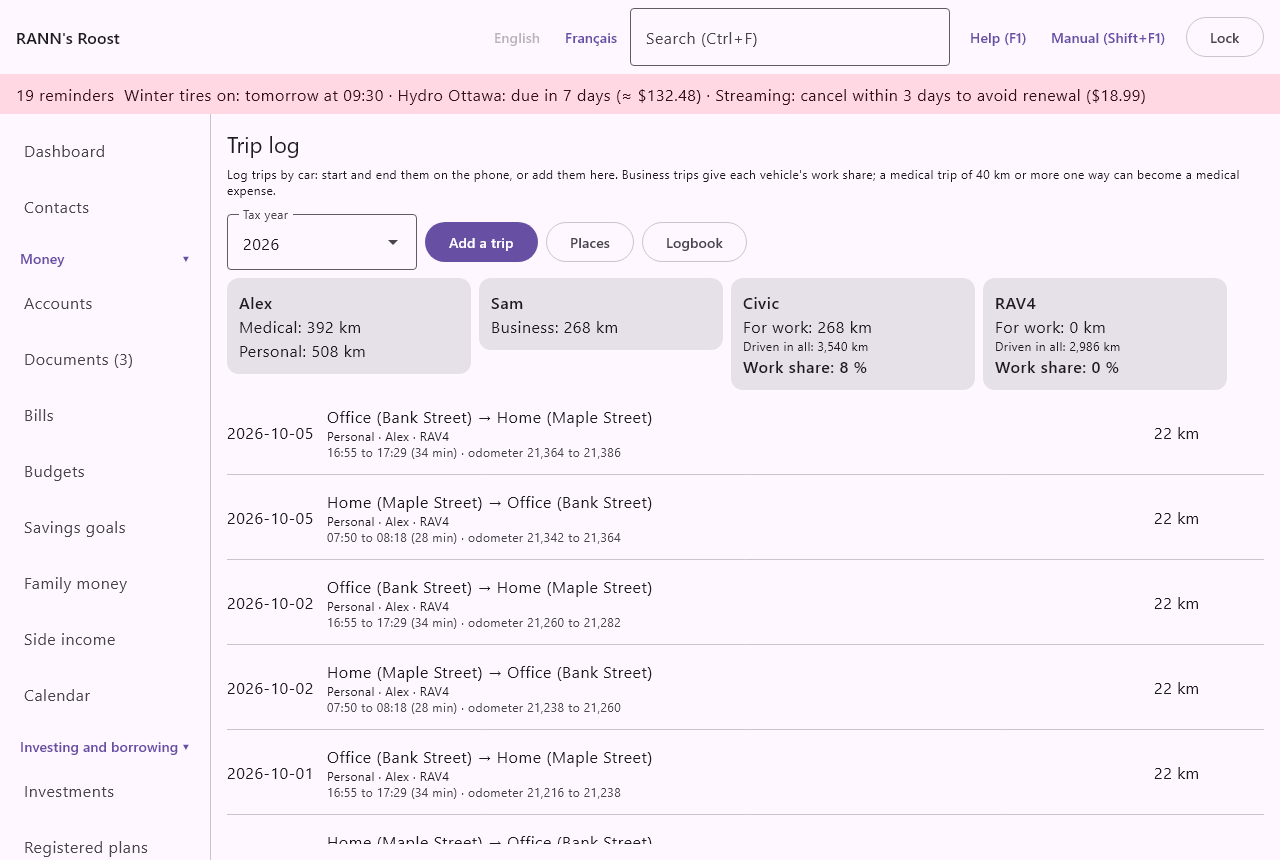
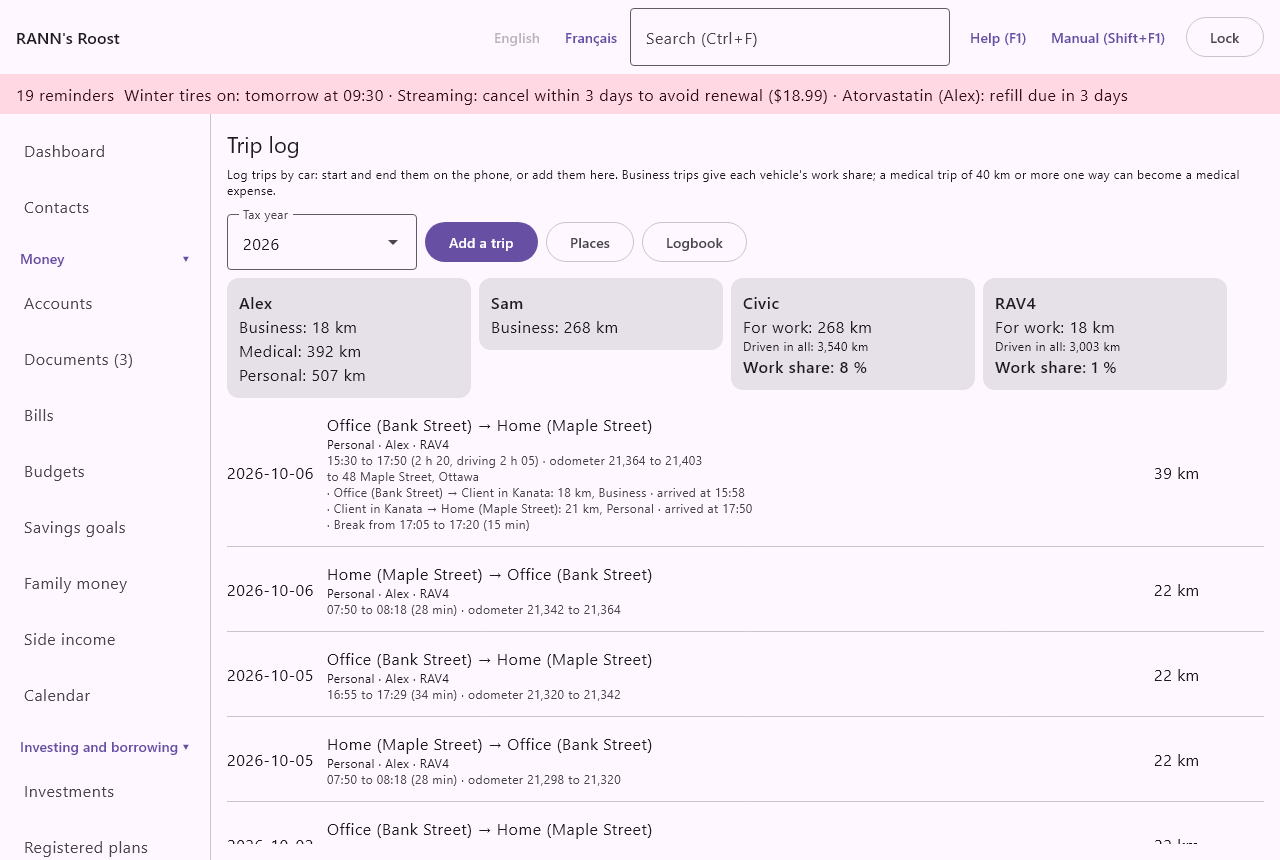
Trips: privacy policy and Data safety for address lookup and stations nearby, help, trip log pictures, shared PDF page count; lint fix

diff --git a/core/books/src/main/kotlin/ca/schippers/hfm/books/SyncService.kt b/core/books/src/main/kotlin/ca/schippers/hfm/books/SyncService.kt
@@ -87,6 +87,9 @@ class PairingRejectedException : Exception("Pairing was refused")
 interface CaptureConverter {
     fun pagesToPdf(pages: List<ByteArray>): ByteArray
     fun recognize(content: ByteArray): OcrResult?
+
+    /** How many pages a PDF shared from the phone has; null when it cannot be told (counted as one). */
+    fun pageCount(pdf: ByteArray): Int? = null
 }
 
 /**
@@ -356,7 +359,9 @@ class SyncService internal constructor(private val books: Books) {
             mime != "text/plain" -> converter.recognize(content)?.let { it to "desktop" }
             else -> null
         }
-        ocr?.let { (result, engine) -> books.documents.recordText(doc.id, maxOf(1, pages.size), result, engine, today) }
+        // A PDF shared from the phone has its own pages; photos are a page each.
+        val pageCount = if (pdf != null) runCatching { converter.pageCount(content) }.getOrNull() ?: 1 else pages.size
+        ocr?.let { (result, engine) -> books.documents.recordText(doc.id, maxOf(1, pageCount), result, engine, today) }
         // What the person typed on the phone wins over what was read.
         val read = books.documents.get(doc.id)
         val amount = f.amount?.let { a -> runCatching { Money.exact(phoneDecimal(a)!!, f.currency?.let(Currency::of) ?: read.amount?.currency ?: books.rates.baseCurrency) }.getOrNull() }

diff --git a/core/books/src/test/kotlin/ca/schippers/hfm/books/SyncServiceTest.kt b/core/books/src/test/kotlin/ca/schippers/hfm/books/SyncServiceTest.kt
@@ -53,6 +53,7 @@ class SyncServiceTest {
         var pdfCalls = 0
         override fun pagesToPdf(pages: List<ByteArray>): ByteArray { pdfCalls++; return "%PDF-1.7 ${pages.size} pages".encodeToByteArray() }
         override fun recognize(content: ByteArray): OcrResult? = null
+        override fun pageCount(pdf: ByteArray): Int? = 3
     }
 
     @BeforeEach
@@ -99,6 +100,17 @@ class SyncServiceTest {
         assertEquals("audio/wav", voice.mimeType)
         assertTrue(books.documents.content(voice.id).contentEquals(wav))
         assertEquals("Lunch with a client, split with Paul", doc.notes, "the dictated words are the note")
+    }
+
+    @Test
+    fun `a PDF shared from the phone keeps its own page count`() {
+        val key = pairAsPhone(books.sync.invitation("Bureau", "127.0.0.1", 47311, now))
+        val shared = CaptureItem(
+            "pdf-1", CaptureKind.BILL, now, pdf = SyncCrypto.b64("%PDF-1.7 three pages".encodeToByteArray()), fileName = "facture.pdf",
+            ocrLines = listOf(OcrText("Hydro-Québec", 0.99f)),
+        )
+        assertEquals(listOf("pdf-1"), send(key, SyncRequest(now, listOf(shared))).imported)
+        assertEquals(3, books.documents.inbox().single().pages)
     }
 
     @Test

diff --git a/app/desktop/src/main/kotlin/ca/schippers/hfm/desktop/SyncServer.kt b/app/desktop/src/main/kotlin/ca/schippers/hfm/desktop/SyncServer.kt
@@ -41,6 +41,7 @@ class SyncServer(private val books: Books, private val today: () -> LocalDate, p
     private val converter = object : CaptureConverter {
         override fun pagesToPdf(pages: List<ByteArray>): ByteArray = PdfPages.fromJpegs(pages)
         override fun recognize(content: ByteArray): OcrResult? = runCatching { DesktopOcr.reader.read(content).result }.getOrNull()
+        override fun pageCount(pdf: ByteArray): Int? = runCatching { ca.schippers.hfm.ocr.desktop.DocumentReader.pageCount(pdf) }.getOrNull()?.takeIf { it > 0 }
     }
 
     /** @throws IOException when no port could be opened. */

diff --git a/docs/store/google-play.md b/docs/store/google-play.md
@@ -120,8 +120,11 @@ never see it. That covers:
   CHO-01, VOL-01): utility meter readings and fuel tank levels, hours worked for a client (date,
   start, time, task and note; the running timer stays on the phone), chores ticked as done, and
   volunteer hours (person, organization, kind, date, time and activity); trips (times, odometers,
-  the places at each end: a saved place's name, or the coordinates of an unnamed end), fill-ups
-  and charges, and the places saved on the phone with their coordinates.
+  the places at each end: a saved place's name, or the coordinates of an unnamed end; since
+  2026-10-07 also the address and coordinates of each end, each stop with its odometer and the
+  purpose of the leg, rest breaks with their times and position), photos and notes (typed,
+  dictated or voice) taken during a trip, fill-ups and charges, and the places saved on the phone
+  (stations among them) with their address and coordinates.
 - From the phone, only when the user turns on "Calendars on this phone" (CSY-01 to CSY-03): the
   items of the phone's calendars the user ticks (title, place, start and end; never descriptions,
   guests or reminders), for the days ahead chosen, read with `READ_CALENDAR` through Android's
@@ -148,6 +151,14 @@ never see it. That covers:
   never policy numbers, plates or amounts) and maintenance next due within 60 days. All of it
   from the groups the user may see, like the events. Calendar items brought in from phones never
   go back to any phone.
+- From the phone to third parties, only when the user turns the option on in Settings and then asks
+  (TRP-17, TRP-18, 2026-10-07; both off by default, each explained beside its switch):
+  - **Look up the address**: the coordinates of one location fix go to Google through Android's
+    `Geocoder` (Google's geocoding service; on Android 13 and later its asynchronous call), which
+    returns the address. Nothing else is sent; the app sends no identifier with it.
+  - **Stations nearby**: a position rounded to two decimals (about a kilometre) goes by HTTPS to
+    OpenStreetMap's Overpass API (overpass-api.de) with the app's name and version as user agent;
+    it returns fuel stations and EV chargers. No account, nothing else.
 - On the phone only: event, refill, bill, maintenance and budget reminders are scheduled and shown
   by the app itself (local notifications); nothing is sent to raise them. The agenda reads the
   phone's own calendars the user ticked (with the same `READ_CALENDAR` permission, only while
@@ -166,14 +177,15 @@ The answers:
   - Collection required: yes, since it cannot be turned off.
 - **Is all of the user data collected by your app encrypted in transit?** Yes (ML Kit uses HTTPS; the phone-to-computer transfer is encrypted end to end).
 - **Can users request deletion?** RANN holds no user data. Everything the app keeps is on the phone and is deleted when the app is uninstalled. Answer "No" to providing a way to request deletion, and explain this in the description field if Play Console asks.
-- **Not collected (end-to-end encrypted, to the user's own computer):** photos and videos, files and documents, audio (voice notes), financial information (including hours worked, chores earned and utility readings), health information (medication refills, medical appointments), calendar events (those from the computer, and those read from the phone's own calendars when the user turns it on), the household's contacts, and location (precise and approximate: one fix at the start and end of a trip, or when saving a place, matched to saved places on the phone; only a place's name, or the coordinates of an unnamed end or a saved place, reach the user's computer). None of these is declared.
+- **Not collected (end-to-end encrypted, to the user's own computer):** photos and videos, files and documents, audio (voice notes), financial information (including hours worked, chores earned and utility readings), health information (medication refills, medical appointments), calendar events (those from the computer, and those read from the phone's own calendars when the user turns it on), the household's contacts, and location (precise and approximate: one fix at the start, each stop and break and the end of a trip, or when saving a place or station, matched to saved places on the phone; the trip's places with their addresses and coordinates reach the user's computer). None of these is declared; the two opt-in lookups that send a position to Google or OpenStreetMap are item 7 below.
 - **Not collected at all:** background location (the app has none), the phone's own address book (the app never reads it), app activity, web history and personal identifiers.
 
 For the owner to confirm before submitting:
 
 1. That the end-to-end encryption exception is applied as above, rather than declaring photos, files, audio, financial and health information, calendar events and contacts as "collected". Both RANN's computer program and the cloud folder or email only ever hold sealed files; if in doubt, declaring them (purpose: App functionality, not shared, optional where the user chooses to capture) is the cautious answer.
 2. Dictation: **Dictate the note** hands over to Android's speech input (an intent to the phone's speech service, often Google's), which handles the voice under its own policy; the app receives only the words. Not declared, since the app itself sends no audio for it. The privacy policy (`website/privacy-policy-en.md` and `-fr.md`) says so under "The phone app and Google" (Dictation, added for 1.0.0).
-3. Permissions Play will ask about: `ACCESS_FINE_LOCATION` and `ACCESS_COARSE_LOCATION` (trips, 2026-10-06: asked only when the user taps **Use my location**, **Add the place where I am** or **Find the nearest saved station**; foreground only, one fix at a time, no `ACCESS_BACKGROUND_LOCATION`, so no background location declaration is needed), `RECORD_AUDIO` (asked only when the user first records a voice note), `POST_NOTIFICATIONS` (reminders), `SCHEDULE_EXACT_ALARM` (reminders on the minute; off by default on Android 14 and later until the user allows it, so no exact-alarm declaration should be needed, but check the Play Console's questions on it), `RECEIVE_BOOT_COMPLETED` (reminders after a restart), `READ_CALENDAR` (asked only when the user turns on "Calendars on this phone" in Settings, after the app says why; only the calendars ticked are read, and only sent to the user's computer), `WRITE_CALENDAR` (asked only when the user picks "Both ways" there, after the app says why; see item 6), `USE_BIOMETRIC` and network access. The Play build has no `REQUEST_INSTALL_PACKAGES`.
+3. Permissions Play will ask about: `ACCESS_FINE_LOCATION` and `ACCESS_COARSE_LOCATION` (trips, 2026-10-06: asked only when the user taps **Use my location**, **Add the place where I am** or **Find the nearest saved station**, or opens **Stations nearby** or **Add a station by hand**; foreground only, one fix at a time, no `ACCESS_BACKGROUND_LOCATION`, so no background location declaration is needed), `RECORD_AUDIO` (asked only when the user first records a voice note), `POST_NOTIFICATIONS` (reminders), `SCHEDULE_EXACT_ALARM` (reminders on the minute; off by default on Android 14 and later until the user allows it, so no exact-alarm declaration should be needed, but check the Play Console's questions on it), `RECEIVE_BOOT_COMPLETED` (reminders after a restart), `READ_CALENDAR` (asked only when the user turns on "Calendars on this phone" in Settings, after the app says why; only the calendars ticked are read, and only sent to the user's computer), `WRITE_CALENDAR` (asked only when the user picks "Both ways" there, after the app says why; see item 6), `USE_BIOMETRIC` and network access. The Play build has no `REQUEST_INSTALL_PACKAGES`.
 4. That Google's ML Kit page still lists the same categories for text recognition, the document scanner and the code scanner: Google may update it.
 5. Location: the trip coordinates fall under the same end-to-end exception as the other data sent to the user's computer. If in doubt, the cautious answer is to declare *Location → Approximate location* and *Precise location* as collected, for *App functionality*, not shared, optional.
 6. Calendar writing ("Both ways", 2026-10-07): written into the user's own calendar on the device, not sent by the app anywhere. When the user picks an account calendar, Android's sync (not the app) sends those events to the user's own calendar provider at the user's explicit choice, which Play does not count as sharing (a transfer the user initiates and expects). Not declared. If in doubt, the cautious answer is *Calendar events* collected and shared, for *App functionality*, optional.
+7. Address lookup and stations nearby (2026-10-07): approximate or precise location leaves the device to a third party (Google's geocoder, OpenStreetMap) at the user's explicit request, after the user turned each on, to return addresses or stations. Play counts data sent to a third party as *shared* unless an exception applies; a transfer the user initiates and expects may qualify, but the cautious answer is to declare *Location → Precise location* (geocoder) and *Approximate location* (stations) as collected and shared, for *App functionality*, optional, not processed ephemerally by RANN (RANN receives nothing). Owner to choose.

diff --git a/website/privacy-policy-fr.md b/website/privacy-policy-fr.md
@@ -44,10 +44,12 @@ L'application mobile peut envoyer à votre ordinateur les calendriers que votre 
 
 ## La position sur le téléphone
 
-L'application mobile utilise votre position seulement si vous l'autorisez, et seulement pour les déplacements : elle prend une seule position au départ d'un déplacement, une à l'arrivée, et une quand vous enregistrez un lieu ou cherchez la station de carburant enregistrée la plus proche. Elle ne suit jamais votre téléphone en arrière-plan et ne demande jamais la position au démarrage.
+L'application mobile utilise votre position seulement si vous l'autorisez, et seulement pour les déplacements : elle prend une seule position au départ d'un déplacement, à chaque arrêt et pause que vous inscrivez, à l'arrivée, et quand vous enregistrez un lieu ou une station, cherchez la station de carburant enregistrée la plus proche ou demandez les stations à proximité. Elle ne suit jamais votre téléphone en arrière-plan et ne demande jamais la position au démarrage.
 
-- La position est comparée à vos lieux enregistrés sur le téléphone même. Aucun service de cartes, aucune recherche d'adresse ni aucune autre entreprise n'est consulté.
-- Ce qui va à votre ordinateur, chiffré de bout en bout comme tout le reste, c'est le nom du lieu, ou ses coordonnées quand vous le laissez sans nom, et les coordonnées d'un lieu que vous enregistrez pour que le prochain déplacement le reconnaisse.
+- La position est comparée à vos lieux enregistrés sur le téléphone même. Aucun service de cartes ni aucune autre entreprise n'est consulté, sauf si vous activez l'une des deux recherches ci-dessous.
+- Ce qui va à votre ordinateur, chiffré de bout en bout comme tout le reste, c'est le déplacement avec le nom, l'adresse et les coordonnées de son départ, de chaque arrêt et pause et de son arrivée, et le nom, l'adresse et les coordonnées d'un lieu que vous enregistrez pour que le prochain déplacement le reconnaisse. Les notes et photos prises pendant un déplacement suivent le même chemin.
+- **Recherche d'adresse (désactivée par défaut).** Si vous activez « Trouver les adresses » dans les Réglages de l'application, toucher « Trouver l'adresse » (ou ajouter une station à la main) envoie les coordonnées de cette position à Google, par le géocodeur d'Android, qui renvoie l'adresse. Seulement quand vous le touchez ; Google traite la demande selon sa propre politique de confidentialité. Rien d'autre n'est envoyé avec elle.
+- **Stations à proximité (désactivées par défaut).** Si vous activez « Stations à proximité », ouvrir cette liste envoie une position approximative (arrondie à environ un kilomètre) au service Overpass d'OpenStreetMap (overpass-api.de), qui renvoie les stations-service et les bornes de recharge autour. Aucun compte, rien d'autre sur vous ou votre déplacement ; les distances exactes sont calculées sur le téléphone. Le service voit l'adresse Internet de votre téléphone, comme pour toute page Web.
 - Sur votre ordinateur, les lieux et les déplacements sont gardés dans le groupe de comptes où votre téléphone envoie, comme vos autres captures : les personnes de votre ménage qui peuvent ouvrir ce groupe les voient, et leurs téléphones reçoivent les lieux enregistrés des groupes qu'elles peuvent ouvrir. Gardez-les dans votre propre groupe privé s'ils ne sont que pour vous.
 - Le déplacement en cours et les lieux enregistrés sur le téléphone sont gardés dans le stockage chiffré du téléphone.
 - Vous pouvez refuser ou retirer l'autorisation dans les réglages d'Android en tout temps ; les déplacements fonctionnent alors en choisissant les lieux ou en tapant leur nom.
@@ -81,6 +83,10 @@ Toutes les demandes utilisent HTTPS. Chaque service voit l'adresse Internet de v
 - Ce qu'il apprend : qu'une copie de l'application vérifie les mises à jour, et les mises à jour que vous choisissez de télécharger.
 
 Les versions du Microsoft Store et de Google Play ne consultent jamais GitHub : la boutique les met à jour.
+
+**Le géocodeur de Google** (par Android) et **le service Overpass d'OpenStreetMap** (overpass-api.de)
+- Quand : seulement depuis le téléphone, seulement si vous avez activé l'option, et seulement quand vous le demandez (voir La position sur le téléphone).
+- Ce qu'ils apprennent : les coordonnées d'une position (Google), ou une position arrondie à environ un kilomètre (OpenStreetMap).
 
 ## Fonctions facultatives qui utilisent vos propres comptes
 

diff --git a/website/privacy-policy-en.md b/website/privacy-policy-en.md
@@ -44,10 +44,12 @@ Writing into a calendar is a separate choice, "Both ways", off unless you pick i
 
 ## Location on the phone
 
-The phone app uses your location only if you allow it, and only for trips: it takes one location fix when you start a trip, one when you arrive, and one when you save a place or look for the nearest saved fuel station. It never follows your phone in the background and never asks for location when it starts.
+The phone app uses your location only if you allow it, and only for trips: it takes one location fix when you start a trip, at each stop and rest break you record, when you arrive, and when you save a place or a station, look for the nearest saved fuel station or ask for stations nearby. It never follows your phone in the background and never asks for location when it starts.
 
-- The fix is compared with your saved places on the phone itself. No map service, address lookup or other company is asked.
-- What goes to your computer, encrypted end to end like everything else, is the name of the place, or its coordinates when you leave it unnamed, and the coordinates of a place you save so the next trip recognizes it.
+- The fix is compared with your saved places on the phone itself. No map service or other company is asked, unless you turn on one of the two lookups below.
+- What goes to your computer, encrypted end to end like everything else, is the trip with the name, address and coordinates of its start, each stop and break, and its arrival, and the name, address and coordinates of a place you save so the next trip recognizes it. Notes and photos you take during a trip go the same way.
+- **Address lookup (off by default).** If you turn on "Look up addresses" in the app's Settings, tapping "Look up the address" (or adding a station by hand) sends that fix's coordinates to Google, through Android's geocoder, which returns the address. Only when you tap it; Google handles the request under its own privacy policy. Nothing else is sent with it.
+- **Stations nearby (off by default).** If you turn on "Stations nearby", opening that list sends a rough position (rounded to about a kilometre) to OpenStreetMap's Overpass service (overpass-api.de), which returns the fuel stations and EV chargers around it. No account, nothing else about you or your trip; the exact distances are worked out on the phone. The service sees your phone's internet address, as for any web page.
 - On your computer, places and trips are kept in the account group your phone sends to, as your other captures are: the people of your household who can open that group see them, and their phones receive the saved places of the groups they can open. Keep them in your own private group if they are for you alone.
 - The trip in progress and the places saved on the phone are kept in the phone's encrypted storage.
 - You can refuse or withdraw the permission in Android's settings at any time; trips then work by choosing places or typing their names.
@@ -81,6 +83,10 @@ All requests use HTTPS. Each service sees your device's internet address, as for
 - What it learns: that a copy of the app is checking for updates, and the updates you choose to download.
 
 The Microsoft Store and Google Play versions never check GitHub: the store updates them.
+
+**Google's geocoder** (through Android) and **OpenStreetMap's Overpass service** (overpass-api.de)
+- When: only from the phone, only if you turned the option on, and only when you ask (see Location on the phone).
+- What they learn: the coordinates of a location fix (Google), or a position rounded to about a kilometre (OpenStreetMap).
 
 ## Optional features that use your own accounts
 

diff --git a/tools/dev/README.md b/tools/dev/README.md
@@ -13,7 +13,7 @@ Small scripts used while building and checking the app. They are not part of the
 
 Typical check of a screen: `./gradlew :app:desktop:runDemo -Plang=en -Psection=DOCUMENTS` in the background, then `shot.ps1`.
 Android: start the emulator (`pixel_7_-_api_36_0`), `adb install -r app/android/build/outputs/apk/github/debug/android-github-debug.apk`, and `adb exec-out screencap -p > phone.png` (from Git Bash, not PowerShell, which corrupts binary output).
-Trying the phone at leisure: the host listens for an hour by default; `-Pminutes=480` keeps it for 8 hours (create `app/desktop/build/phone-stop` to stop it sooner).
+Trying the phone at leisure: the host listens for an hour by default; `-Pminutes=480` keeps it for 8 hours (create `app/desktop/build/phone-stop` to stop it sooner). When it stops, the host prints what the phone sent: trips with their legs, breaks, addresses and photos and notes, places saved on the phone, fill-ups and the documents in the inbox, to check a run without a window. Mock the phone's position with `adb -s emulator-5554 emu geo fix <longitude> <latitude>`.
 
 Phone reminders: `./gradlew :app:desktop:manualPhoneHost -Plang=en -PeventIn=7` adds two events starting in 7 minutes, reminded 2 minutes before (one medical, whose notification names nothing); pair the phone within 5 minutes and watch the notification. `adb shell appops set ca.ranns.roost.mobile SCHEDULE_EXACT_ALARM allow` makes it ring on the minute.
 To pair the emulator with the demo (each demo run is a new household): run the demo with `-Psection=PHONES`, click "Pair a phone", then "Copy as text", and open the copied `hfmpair:` text on the phone with `adb shell am start -a android.intent.action.VIEW -d "'<text>'" ca.ranns.roost.mobile`. The phone's screen is 1080x2400 for `adb shell input tap`.

diff --git a/core/i18n/src/main/resources/hfm/help/fr/trips.md b/core/i18n/src/main/resources/hfm/help/fr/trips.md
@@ -6,6 +6,10 @@ Le registre des déplacements garde les trajets faits en voiture pour le travail
 
 Choisissez Ajouter un déplacement et entrez la date, la destination, les kilomètres aller simple et s’il s’agit d’un aller-retour. Choisissez le motif (affaires, emploi, médical ou personnel), la personne et le véhicule. Cliquez sur un déplacement pour le modifier ou le supprimer.
 
+## Déplacements du téléphone
+
+Un déplacement commencé sur le téléphone peut avoir plusieurs arrêts et pauses. Chaque arrêt donne un trajet avec sa propre distance et son propre motif, montré sous le déplacement et sur sa propre ligne dans le carnet de route ; les pauses sont exclues du temps de conduite. Les photos et notes prises en route s’ouvrent dans Documents.
+
 ## La part de travail d’un véhicule
 
 Les cartes du haut additionnent les kilomètres de chaque personne par motif. Pour un véhicule, elles comparent aussi les kilomètres d’affaires et d’emploi à tous les kilomètres parcourus dans l’année. Ce total vient des lectures de l’odomètre de l’écran Véhicules : ajoutez-en une au début de l’année et une à la fin. La part de travail est ce que l’ARC demande pour déduire des frais de véhicule.

diff --git a/core/i18n/src/main/resources/hfm/help/en/trips.md b/core/i18n/src/main/resources/hfm/help/en/trips.md
@@ -6,6 +6,10 @@ The trip log keeps the trips you make by car for work or for medical care. It is
 
 Choose Add a trip and enter the date, where you went, the kilometres one way and whether it was a round trip. Choose the purpose (business, employment, medical or personal), the person and the vehicle. Click a trip to change or delete it.
 
+## Trips from the phone
+
+A trip started on the phone can have several stops and rest breaks. Each stop gives a leg with its own distance and purpose, shown under the trip and as its own line in the logbook; breaks are left out of the driving time. Photos and notes taken on the way open in Documents.
+
 ## A vehicle's work share
 
 The cards at the top add up each person's kilometres by purpose. For a vehicle, they also compare the business and employment kilometres with all the kilometres it was driven in the year. That total comes from its odometer readings on the Vehicles screen: add one near the start of the year and one near the end. The work share is what the CRA asks for when you claim vehicle expenses.
